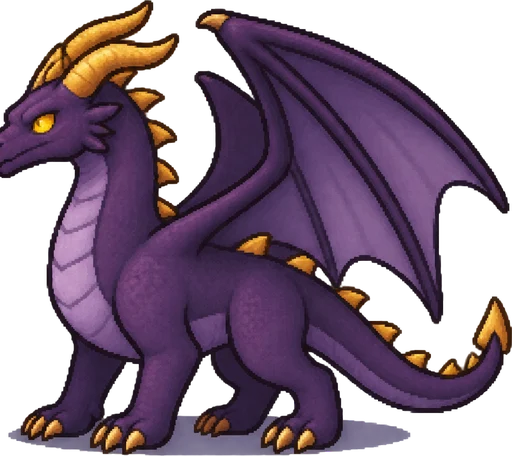
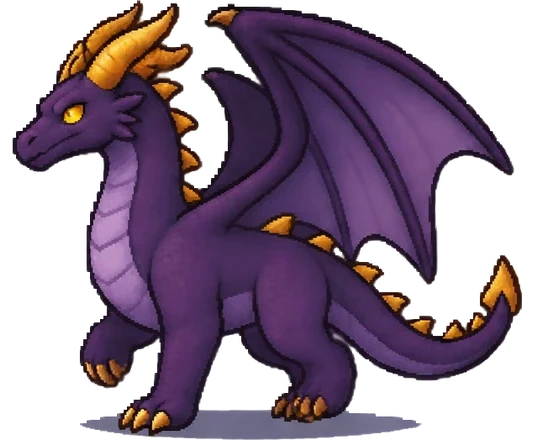
Lenda do Campinho v331: Dragão Ancião com o focinho inteiro
A pose parada (bicho_dragao_anciao) tinha o focinho cortado reto na borda da imagem — aparecia no Dragão Ancião Rei
(o guardião, desenhado bem maior). Refeita a partir do quadro de corrida inteiro, mesma altura; ASSET_VER 331.

diff --git a/frontend/public/lenda-do-campinho/index.html b/frontend/public/lenda-do-campinho/index.html
@@ -11,8 +11,8 @@
 <link rel="preconnect" href="https://fonts.googleapis.com">
 <link rel="preconnect" href="https://fonts.gstatic.com" crossorigin>
 <link href="https://fonts.googleapis.com/css2?family=Fredoka:wght@500;600;700&family=Nunito:wght@600;700;800&display=swap" rel="stylesheet">
-<link rel="stylesheet" href="css/style.css?v=330">
-<link rel="stylesheet" href="css/inicio.css?v=330">
+<link rel="stylesheet" href="css/style.css?v=331">
+<link rel="stylesheet" href="css/inicio.css?v=331">
 <link rel="icon" href="https://www.educacaogamer.com.br/favicon.png">
 <link rel="manifest" href="manifest.webmanifest">
 <link rel="apple-touch-icon" href="a/icone_192.png">
@@ -155,128 +155,128 @@
   </div>
 </div>
 
-<script src="js/confirma.js?v=330"></script>
-<script src="js/data.js?v=330"></script>
-<script src="js/arte.js?v=330"></script>
-<script src="js/assets.js?v=330"></script>
-<script src="js/world.js?v=330"></script>
-<script src="js/game.js?v=330"></script>
-<script src="js/roupas.js?v=330"></script>
-<script src="js/europa.js?v=330"></script>
-<script src="js/cidades.js?v=330"></script>
-<script src="js/santos_mapa.js?v=330"></script>
-<script src="js/espalha.js?v=330"></script>
-<script src="js/centrinho.js?v=330"></script>
-<script src="js/team.js?v=330"></script>
-<script src="js/copa.js?v=330"></script>
-<script src="js/carreira.js?v=330"></script>
-<script src="js/historia.js?v=330"></script>
-<script src="js/ui.js?v=330"></script>
-<script src="js/penalti.js?v=330"></script>
-<script src="js/bonecos_meta.js?v=330"></script>
-<script src="js/boneco.js?v=330"></script>
-<script src="js/clima.js?v=330"></script>
-<script src="js/itens.js?v=330"></script>
-<script src="js/layout.js?v=330"></script>
-<script src="js/backup.js?v=330"></script>
-<script src="js/minimapa.js?v=330"></script>
-<script src="js/audio.js?v=330"></script>
-<script src="js/jogadas.js?v=330"></script>
-<script src="js/arenas.js?v=330"></script>
-<script src="js/montarias.js?v=330"></script>
-<script src="js/armazem.js?v=330"></script>
-<script src="js/casas.js?v=330"></script>
-<script src="js/celular.js?v=330"></script>
-<script src="js/celular2.js?v=330"></script>
-<script src="js/beta.js?v=330"></script>
-<script src="js/portal.js?v=330"></script>
-<script src="js/nuvem.js?v=330"></script>
-<script src="js/contas.js?v=330"></script><script src="js/sessao_unica.js?v=330"></script>
-<script src="js/protege.js?v=330"></script>
-<script src="js/topo.js?v=330"></script>
-<script src="js/sair.js?v=330"></script>
-<script src="js/lances.js?v=330"></script>
-<script src="js/vocacoes.js?v=330"></script>
-<script src="js/tela.js?v=330"></script>
-<script src="js/agua.js?v=330"></script>
-<script src="js/vento.js?v=330"></script>
-<script src="js/wiki.js?v=330"></script>
-<script src="js/personagens.js?v=330"></script>
-<script src="js/teclas.js?v=330"></script>
-<script src="js/variedade.js?v=330"></script>
-<script src="js/bonecos_meta2.js?v=330"></script>
-<script src="js/bonecos_meta3.js?v=330"></script>
-<script src="js/bonecos_meta4.js?v=330"></script>
-<script src="js/corpos.js?v=330"></script>
-<script src="js/fx.js?v=330"></script>
-<script src="js/cacadas.js?v=330"></script>
-<script src="js/atlantida.js?v=330"></script>
-<script src="js/espaco.js?v=330"></script>
-<script src="js/vale.js?v=330"></script>
-<script src="js/treino.js?v=330"></script>
-<script src="js/cadastro.js?v=330"></script>
-<script src="js/montaria_arte.js?v=330"></script>
-<script src="js/luxo.js?v=330"></script>
-<script src="js/divulgar.js?v=330"></script>
-<script src="js/corrida.js?v=330"></script><script src="js/estadios.js?v=330"></script><script src="js/monumentos.js?v=330"></script><script src="js/ruas.js?v=330"></script><script src="js/ambiente.js?v=330"></script><script src="js/conquistas.js?v=330"></script><script src="js/rastreador.js?v=330"></script><script src="js/alertas.js?v=330"></script><script src="js/ondeachar.js?v=330"></script><script src="js/time_guia.js?v=330"></script><script src="js/jogadas_info.js?v=330"></script><script src="js/dribles_nivel.js?v=330"></script><script src="js/pocoes.js?v=330"></script><script src="js/analisador.js?v=330"></script><script src="js/tarefas.js?v=330"></script><script src="js/diaria.js?v=330"></script><script src="js/avisos.js?v=330"></script><script src="js/saida_trancada.js?v=330"></script><script src="js/cidade_arrumada.js?v=330"></script><script src="js/partida.js?v=330"></script><script src="js/centros_treino.js?v=330"></script><script src="js/grade.js?v=330"></script><script src="js/zona_segura.js?v=330"></script><script src="js/minha_classe.js?v=330"></script>
-<script src="js/app_windows.js?v=330"></script>
-<script src="js/inicio.js?v=330"></script>
-<script src="js/top3.js?v=330"></script>
-<script src="js/gravacao.js?v=330"></script>
-<script src="js/massagistas.js?v=330"></script>
-<script src="js/arquibancadas.js?v=330"></script>
-<script src="js/asas.js?v=330"></script>
-<script src="js/carreira_metas.js?v=330"></script>
-<script src="js/arquetipos.js?v=330"></script>
-<script src="js/magias_adv.js?v=330"></script>
-<script src="js/santos.js?v=330"></script>
-<script src="js/arcos.js?v=330"></script>
-<script src="js/luz.js?v=330"></script>
-<script src="js/clube_mais.js?v=330"></script>
-<script src="js/compacto.js?v=330"></script>
-<script src="js/ajustes_ui.js?v=330"></script>
-<script src="js/volta_v258.js?v=330"></script>
-<script src="js/cidades_vivas.js?v=330"></script>
-<script src="js/cidades_novas.js?v=330"></script>
-<script src="js/dungeons_novas.js?v=330"></script>
-<script src="js/vila_nova.js?v=330"></script>
-<script src="js/brasil_vivo.js?v=330"></script>
-<script src="js/armazem_forja.js?v=330"></script>
-<script src="js/tarefas_loja.js?v=330"></script>
-<script src="js/carreira_jogos.js?v=330"></script>
-<script src="js/carreira_futebol.js?v=330"></script>
-<script src="js/lendas.js?v=330"></script>
-<script src="js/mapa_marca.js?v=330"></script>
-<script src="js/missoes_colecao.js?v=330"></script>
-<script src="js/espaco_novo.js?v=330"></script>
-<script src="js/pontes.js?v=330"></script>
-<script src="js/futebol_dicas.js?v=330"></script>
-<script src="js/visual_itens.js?v=330"></script>
-<script src="js/balanco_xp.js?v=330"></script>
-<script src="js/santos_jogadores.js?v=330"></script>
-<script src="js/pescoco_arte.js?v=330"></script>
-<script src="js/fps.js?v=330"></script>
-<script src="js/adornos.js?v=330"></script>
-<script src="js/desempenho.js?v=330"></script>
-<script src="js/roupas_tecidos.js?v=330"></script>
-<script src="js/chapeus_arte.js?v=330"></script>
-<script src="js/cacas_calmas.js?v=330"></script>
-<script src="js/viagens_equip.js?v=330"></script>
-<script src="js/bichos_vivos.js?v=330"></script>
-<script src="js/economia_ouro.js?v=330"></script>
-<script src="js/multiverso.js?v=330"></script>
-<script src="js/torre_infinita.js?v=330"></script>
-<script src="js/xp_alto_nivel.js?v=330"></script>
-<script src="js/carreira_simula.js?v=330"></script>
-<script src="js/celular3.js?v=330"></script>
-<script src="js/graficos.js?v=330"></script>
-<script src="js/treino_fundo.js?v=330"></script>
-<script src="js/aquece.js?v=330"></script>
-<script src="js/memoria_mapas.js?v=330"></script>
-<script src="js/agencia.js?v=330"></script>
-<script src="js/modos_finalizados.js?v=330"></script>
-<script src="js/guardioes_lenda.js?v=330"></script>
-<script src="js/icones_vivos.js?v=330"></script>
-<script src="js/versao_nova.js?v=330"></script>
+<script src="js/confirma.js?v=331"></script>
+<script src="js/data.js?v=331"></script>
+<script src="js/arte.js?v=331"></script>
+<script src="js/assets.js?v=331"></script>
+<script src="js/world.js?v=331"></script>
+<script src="js/game.js?v=331"></script>
+<script src="js/roupas.js?v=331"></script>
+<script src="js/europa.js?v=331"></script>
+<script src="js/cidades.js?v=331"></script>
+<script src="js/santos_mapa.js?v=331"></script>
+<script src="js/espalha.js?v=331"></script>
+<script src="js/centrinho.js?v=331"></script>
+<script src="js/team.js?v=331"></script>
+<script src="js/copa.js?v=331"></script>
+<script src="js/carreira.js?v=331"></script>
+<script src="js/historia.js?v=331"></script>
+<script src="js/ui.js?v=331"></script>
+<script src="js/penalti.js?v=331"></script>
+<script src="js/bonecos_meta.js?v=331"></script>
+<script src="js/boneco.js?v=331"></script>
+<script src="js/clima.js?v=331"></script>
+<script src="js/itens.js?v=331"></script>
+<script src="js/layout.js?v=331"></script>
+<script src="js/backup.js?v=331"></script>
+<script src="js/minimapa.js?v=331"></script>
+<script src="js/audio.js?v=331"></script>
+<script src="js/jogadas.js?v=331"></script>
+<script src="js/arenas.js?v=331"></script>
+<script src="js/montarias.js?v=331"></script>
+<script src="js/armazem.js?v=331"></script>
+<script src="js/casas.js?v=331"></script>
+<script src="js/celular.js?v=331"></script>
+<script src="js/celular2.js?v=331"></script>
+<script src="js/beta.js?v=331"></script>
+<script src="js/portal.js?v=331"></script>
+<script src="js/nuvem.js?v=331"></script>
+<script src="js/contas.js?v=331"></script><script src="js/sessao_unica.js?v=331"></script>
+<script src="js/protege.js?v=331"></script>
+<script src="js/topo.js?v=331"></script>
+<script src="js/sair.js?v=331"></script>
+<script src="js/lances.js?v=331"></script>
+<script src="js/vocacoes.js?v=331"></script>
+<script src="js/tela.js?v=331"></script>
+<script src="js/agua.js?v=331"></script>
+<script src="js/vento.js?v=331"></script>
+<script src="js/wiki.js?v=331"></script>
+<script src="js/personagens.js?v=331"></script>
+<script src="js/teclas.js?v=331"></script>
+<script src="js/variedade.js?v=331"></script>
+<script src="js/bonecos_meta2.js?v=331"></script>
+<script src="js/bonecos_meta3.js?v=331"></script>
+<script src="js/bonecos_meta4.js?v=331"></script>
+<script src="js/corpos.js?v=331"></script>
+<script src="js/fx.js?v=331"></script>
+<script src="js/cacadas.js?v=331"></script>
+<script src="js/atlantida.js?v=331"></script>
+<script src="js/espaco.js?v=331"></script>
+<script src="js/vale.js?v=331"></script>
+<script src="js/treino.js?v=331"></script>
+<script src="js/cadastro.js?v=331"></script>
+<script src="js/montaria_arte.js?v=331"></script>
+<script src="js/luxo.js?v=331"></script>
+<script src="js/divulgar.js?v=331"></script>
+<script src="js/corrida.js?v=331"></script><script src="js/estadios.js?v=331"></script><script src="js/monumentos.js?v=331"></script><script src="js/ruas.js?v=331"></script><script src="js/ambiente.js?v=331"></script><script src="js/conquistas.js?v=331"></script><script src="js/rastreador.js?v=331"></script><script src="js/alertas.js?v=331"></script><script src="js/ondeachar.js?v=331"></script><script src="js/time_guia.js?v=331"></script><script src="js/jogadas_info.js?v=331"></script><script src="js/dribles_nivel.js?v=331"></script><script src="js/pocoes.js?v=331"></script><script src="js/analisador.js?v=331"></script><script src="js/tarefas.js?v=331"></script><script src="js/diaria.js?v=331"></script><script src="js/avisos.js?v=331"></script><script src="js/saida_trancada.js?v=331"></script><script src="js/cidade_arrumada.js?v=331"></script><script src="js/partida.js?v=331"></script><script src="js/centros_treino.js?v=331"></script><script src="js/grade.js?v=331"></script><script src="js/zona_segura.js?v=331"></script><script src="js/minha_classe.js?v=331"></script>
+<script src="js/app_windows.js?v=331"></script>
+<script src="js/inicio.js?v=331"></script>
+<script src="js/top3.js?v=331"></script>
+<script src="js/gravacao.js?v=331"></script>
+<script src="js/massagistas.js?v=331"></script>
+<script src="js/arquibancadas.js?v=331"></script>
+<script src="js/asas.js?v=331"></script>
+<script src="js/carreira_metas.js?v=331"></script>
+<script src="js/arquetipos.js?v=331"></script>
+<script src="js/magias_adv.js?v=331"></script>
+<script src="js/santos.js?v=331"></script>
+<script src="js/arcos.js?v=331"></script>
+<script src="js/luz.js?v=331"></script>
+<script src="js/clube_mais.js?v=331"></script>
+<script src="js/compacto.js?v=331"></script>
+<script src="js/ajustes_ui.js?v=331"></script>
+<script src="js/volta_v258.js?v=331"></script>
+<script src="js/cidades_vivas.js?v=331"></script>
+<script src="js/cidades_novas.js?v=331"></script>
+<script src="js/dungeons_novas.js?v=331"></script>
+<script src="js/vila_nova.js?v=331"></script>
+<script src="js/brasil_vivo.js?v=331"></script>
+<script src="js/armazem_forja.js?v=331"></script>
+<script src="js/tarefas_loja.js?v=331"></script>
+<script src="js/carreira_jogos.js?v=331"></script>
+<script src="js/carreira_futebol.js?v=331"></script>
+<script src="js/lendas.js?v=331"></script>
+<script src="js/mapa_marca.js?v=331"></script>
+<script src="js/missoes_colecao.js?v=331"></script>
+<script src="js/espaco_novo.js?v=331"></script>
+<script src="js/pontes.js?v=331"></script>
+<script src="js/futebol_dicas.js?v=331"></script>
+<script src="js/visual_itens.js?v=331"></script>
+<script src="js/balanco_xp.js?v=331"></script>
+<script src="js/santos_jogadores.js?v=331"></script>
+<script src="js/pescoco_arte.js?v=331"></script>
+<script src="js/fps.js?v=331"></script>
+<script src="js/adornos.js?v=331"></script>
+<script src="js/desempenho.js?v=331"></script>
+<script src="js/roupas_tecidos.js?v=331"></script>
+<script src="js/chapeus_arte.js?v=331"></script>
+<script src="js/cacas_calmas.js?v=331"></script>
+<script src="js/viagens_equip.js?v=331"></script>
+<script src="js/bichos_vivos.js?v=331"></script>
+<script src="js/economia_ouro.js?v=331"></script>
+<script src="js/multiverso.js?v=331"></script>
+<script src="js/torre_infinita.js?v=331"></script>
+<script src="js/xp_alto_nivel.js?v=331"></script>
+<script src="js/carreira_simula.js?v=331"></script>
+<script src="js/celular3.js?v=331"></script>
+<script src="js/graficos.js?v=331"></script>
+<script src="js/treino_fundo.js?v=331"></script>
+<script src="js/aquece.js?v=331"></script>
+<script src="js/memoria_mapas.js?v=331"></script>
+<script src="js/agencia.js?v=331"></script>
+<script src="js/modos_finalizados.js?v=331"></script>
+<script src="js/guardioes_lenda.js?v=331"></script>
+<script src="js/icones_vivos.js?v=331"></script>
+<script src="js/versao_nova.js?v=331"></script>
 </body>
 </html>

diff --git a/frontend/public/lenda-do-campinho/js/bichos_vivos.js b/frontend/public/lenda-do-campinho/js/bichos_vivos.js
@@ -14,6 +14,7 @@
   if (typeof ASSET_VER !== 'undefined') for (const n of ['bicho_aranha', 'bicho_dragao', 'bicho_escorpiao', 'bicho_gargula', 'bicho_polvo', 'bicho_rato2', 'et_cristal', 'pombo2']) ASSET_VER[n] = 313;
   // v317: a arte parada do Tanuki, do Touro e do Jacaré (rabo) e do Morcego (asa) vinha cortada na borda: refeitas inteiras
   if (typeof ASSET_VER !== 'undefined') for (const n of ['bicho_tanuki', 'bicho_touro', 'bicho_jacare', 'bicho_morcego']) ASSET_VER[n] = 317;
+  if (typeof ASSET_VER !== 'undefined') ASSET_VER.bicho_dragao_anciao = 331; // v331: a pose parada tinha o focinho cortado (refeita do quadro de corrida inteiro)
   const ARRASTA = new Set(['bicho_mumia']); // brigando parado: passos no lugar
   const _quadroVivo = quadroBicho;
   quadroBicho = function (e, nome, look) {
